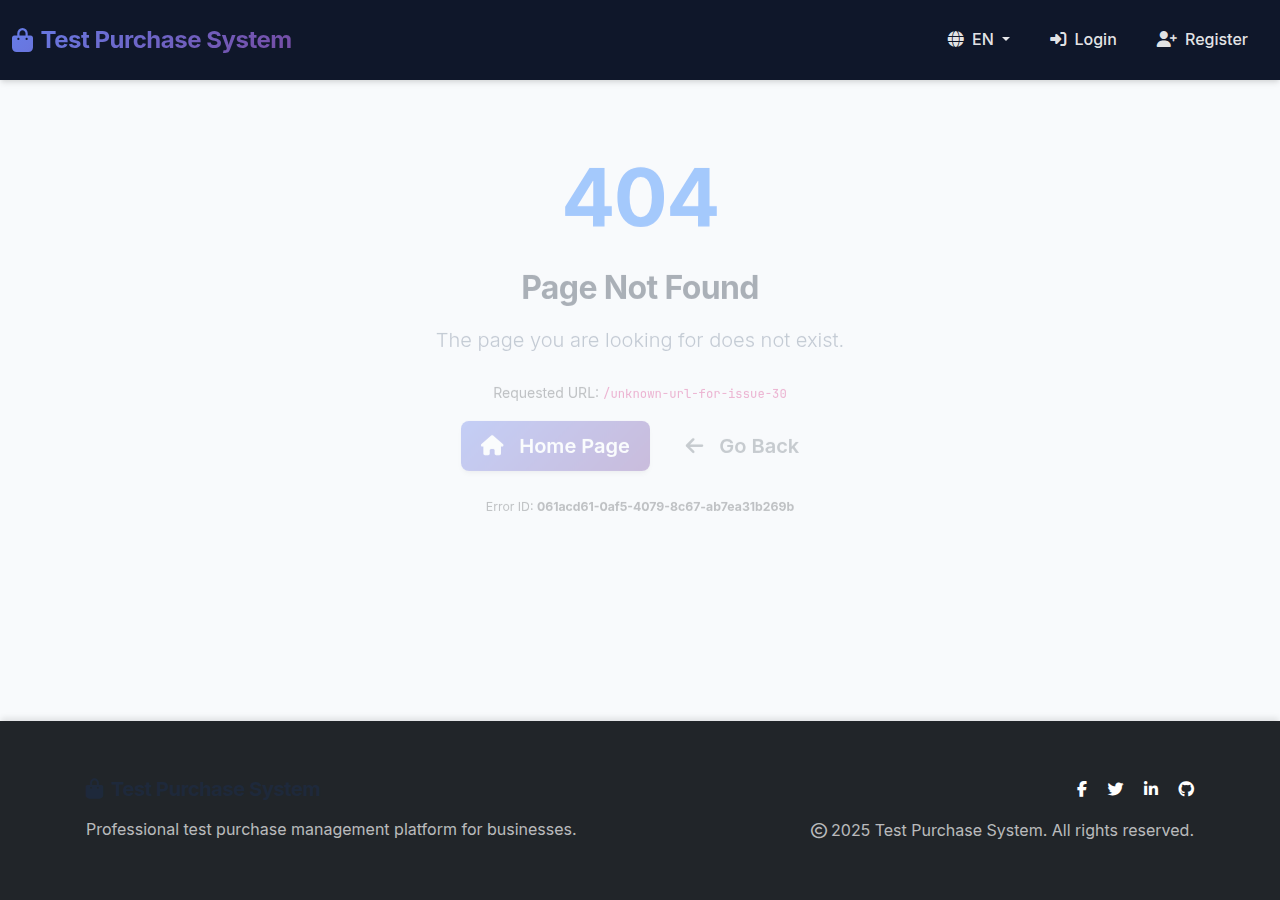
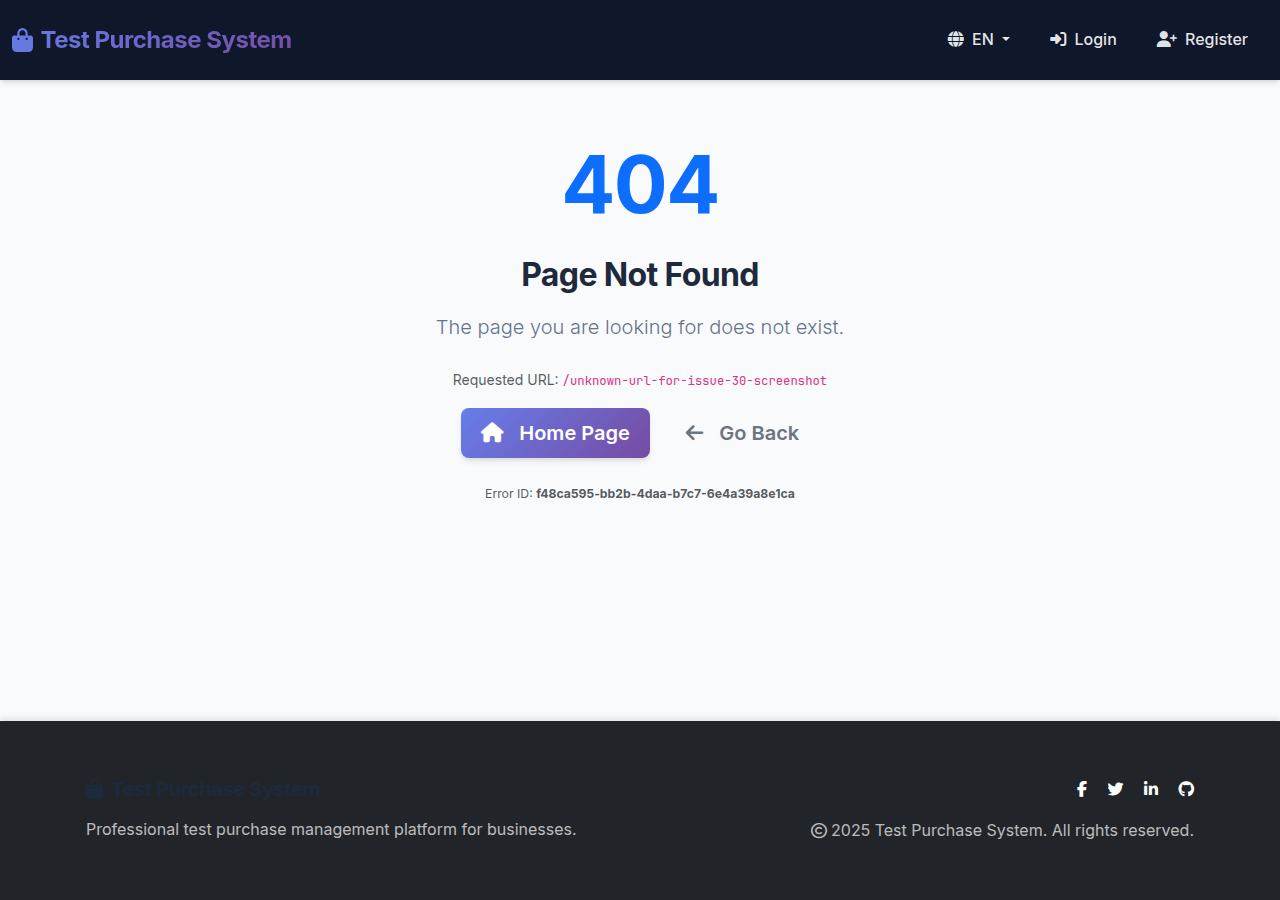
Add real HTTP client tests and refresh 404 screenshot
Use java.net.http.HttpClient without redirect following for anonymous
GET/DELETE /home login redirects. Retake 404 screenshot after fade-in
(CAPTURE_404=1 for optional capture in UnknownUrlNotFoundHttpClientIT).

Changed region(s): [[0.3438, 0.28, 0.6562, 0.5911], [0.4375, 0.1556, 0.5625, 0.2489]]

diff --git a/src/test/java/app/config/UnknownUrlNotFoundHttpClientIT.java b/src/test/java/app/config/UnknownUrlNotFoundHttpClientIT.java
@@ -1,0 +1,140 @@
+package app.config;
+
+import org.junit.jupiter.api.BeforeEach;
+import org.junit.jupiter.api.Test;
+import org.junit.jupiter.api.condition.EnabledIfEnvironmentVariable;
+import org.springframework.boot.test.context.SpringBootTest;
+import org.springframework.boot.test.mock.mockito.MockBean;
+import org.springframework.boot.test.web.server.LocalServerPort;
+import org.springframework.test.context.ActiveProfiles;
+
+import java.net.CookieManager;
+import java.net.CookiePolicy;
+import java.net.URI;
+import java.net.http.HttpClient;
+import java.net.http.HttpRequest;
+import java.net.http.HttpResponse;
+import java.nio.charset.StandardCharsets;
+import java.nio.file.Path;
+import java.time.Duration;
+import java.util.concurrent.TimeUnit;
+import java.util.regex.Matcher;
+import java.util.regex.Pattern;
+
+import static org.assertj.core.api.Assertions.assertThat;
+
+@SpringBootTest(webEnvironment = SpringBootTest.WebEnvironment.RANDOM_PORT)
+@ActiveProfiles("test")
+class UnknownUrlNotFoundHttpClientIT {
+
+    private static final Pattern CSRF_TOKEN = Pattern.compile("name=\"_csrf\" value=\"([^\"]+)\"");
+
+    @LocalServerPort
+    private int port;
+
+    @MockBean
+    private app.client.PricingClient pricingClient;
+
+    private HttpClient httpClient;
+    private String baseUrl;
+
+    @BeforeEach
+    void setUp() {
+        CookieManager cookieManager = new CookieManager(null, CookiePolicy.ACCEPT_ALL);
+        httpClient = HttpClient.newBuilder()
+                .followRedirects(HttpClient.Redirect.NEVER)
+                .connectTimeout(Duration.ofSeconds(10))
+                .cookieHandler(cookieManager)
+                .build();
+        baseUrl = "http://localhost:" + port;
+    }
+
+    @Test
+    void anonymousGetHomeRedirectsToLoginWithRealHttpClient() throws Exception {
+        HttpResponse<String> response = httpClient.send(
+                HttpRequest.newBuilder(URI.create(baseUrl + "/home"))
+                        .GET()
+                        .build(),
+                HttpResponse.BodyHandlers.ofString());
+
+        assertThat(response.statusCode()).isEqualTo(302);
+        assertThat(response.headers().firstValue("Location"))
+                .hasValueSatisfying(location -> assertThat(location).contains("/login"));
+    }
+
+    @Test
+    void anonymousDeleteHomeDoesNotReturn405WithRealHttpClient() throws Exception {
+        HttpResponse<String> loginPage = fetchLoginPage();
+        String csrfToken = parseCsrfToken(loginPage.body());
+        String cookieHeader = buildCookieHeader(loginPage);
+
+        String deleteUrl = baseUrl + "/home?_csrf=" + java.net.URLEncoder.encode(csrfToken, StandardCharsets.UTF_8);
+        HttpResponse<String> response = httpClient.send(
+                HttpRequest.newBuilder(URI.create(deleteUrl))
+                        .method("DELETE", HttpRequest.BodyPublishers.noBody())
+                        .header("Cookie", cookieHeader)
+                        .header("X-XSRF-TOKEN", csrfToken)
+                        .build(),
+                HttpResponse.BodyHandlers.ofString());
+
+        assertThat(response.statusCode()).isNotEqualTo(405);
+        assertThat(response.statusCode()).isEqualTo(302);
+        assertThat(response.headers().firstValue("Location"))
+                .hasValueSatisfying(location -> assertThat(location).contains("/login"));
+    }
+
+    @Test
+    @EnabledIfEnvironmentVariable(named = "CAPTURE_404", matches = "true")
+    void retake404PageScreenshotAfterFadeIn() throws Exception {
+        String url = baseUrl + "/unknown-url-for-issue-30-screenshot";
+        Path screenshot = Path.of("docs/screenshots/pr35/404-page.png");
+        screenshot.getParent().toFile().mkdirs();
+
+        ProcessBuilder chrome = new ProcessBuilder(
+                "google-chrome",
+                "--headless=new",
+                "--disable-gpu",
+                "--hide-scrollbars",
+                "--window-size=1280,900",
+                "--host-resolver-rules=MAP cdnjs.cloudflare.com 127.0.0.1, MAP cdn.jsdelivr.net 127.0.0.1, MAP cdn.datatables.net 127.0.0.1",
+                "--virtual-time-budget=3000",
+                "--run-all-compositor-stages-before-draw",
+                "--screenshot=" + screenshot.toAbsolutePath(),
+                url);
+        Process process = chrome.start();
+        if (!process.waitFor(20, TimeUnit.SECONDS)) {
+            process.destroyForcibly();
+        }
+        assertThat(screenshot).exists();
+        assertThat(screenshot.toFile().length()).isGreaterThan(10_000);
+    }
+
+    private HttpResponse<String> fetchLoginPage() throws Exception {
+        HttpResponse<String> loginPage = httpClient.send(
+                HttpRequest.newBuilder(URI.create(baseUrl + "/login"))
+                        .GET()
+                        .build(),
+                HttpResponse.BodyHandlers.ofString());
+        assertThat(loginPage.statusCode()).isEqualTo(200);
+        return loginPage;
+    }
+
+    private String parseCsrfToken(String loginHtml) {
+        Matcher matcher = CSRF_TOKEN.matcher(loginHtml);
+        assertThat(matcher.find()).isTrue();
+        return matcher.group(1);
+    }
+
+    private static String buildCookieHeader(HttpResponse<?> response) {
+        StringBuilder cookies = new StringBuilder();
+        for (String setCookie : response.headers().allValues("set-cookie")) {
+            String nameValue = setCookie.split(";", 2)[0].trim();
+            if (cookies.length() > 0) {
+                cookies.append("; ");
+            }
+            cookies.append(nameValue);
+        }
+        assertThat(cookies.length()).isGreaterThan(0);
+        return cookies.toString();
+    }
+}
